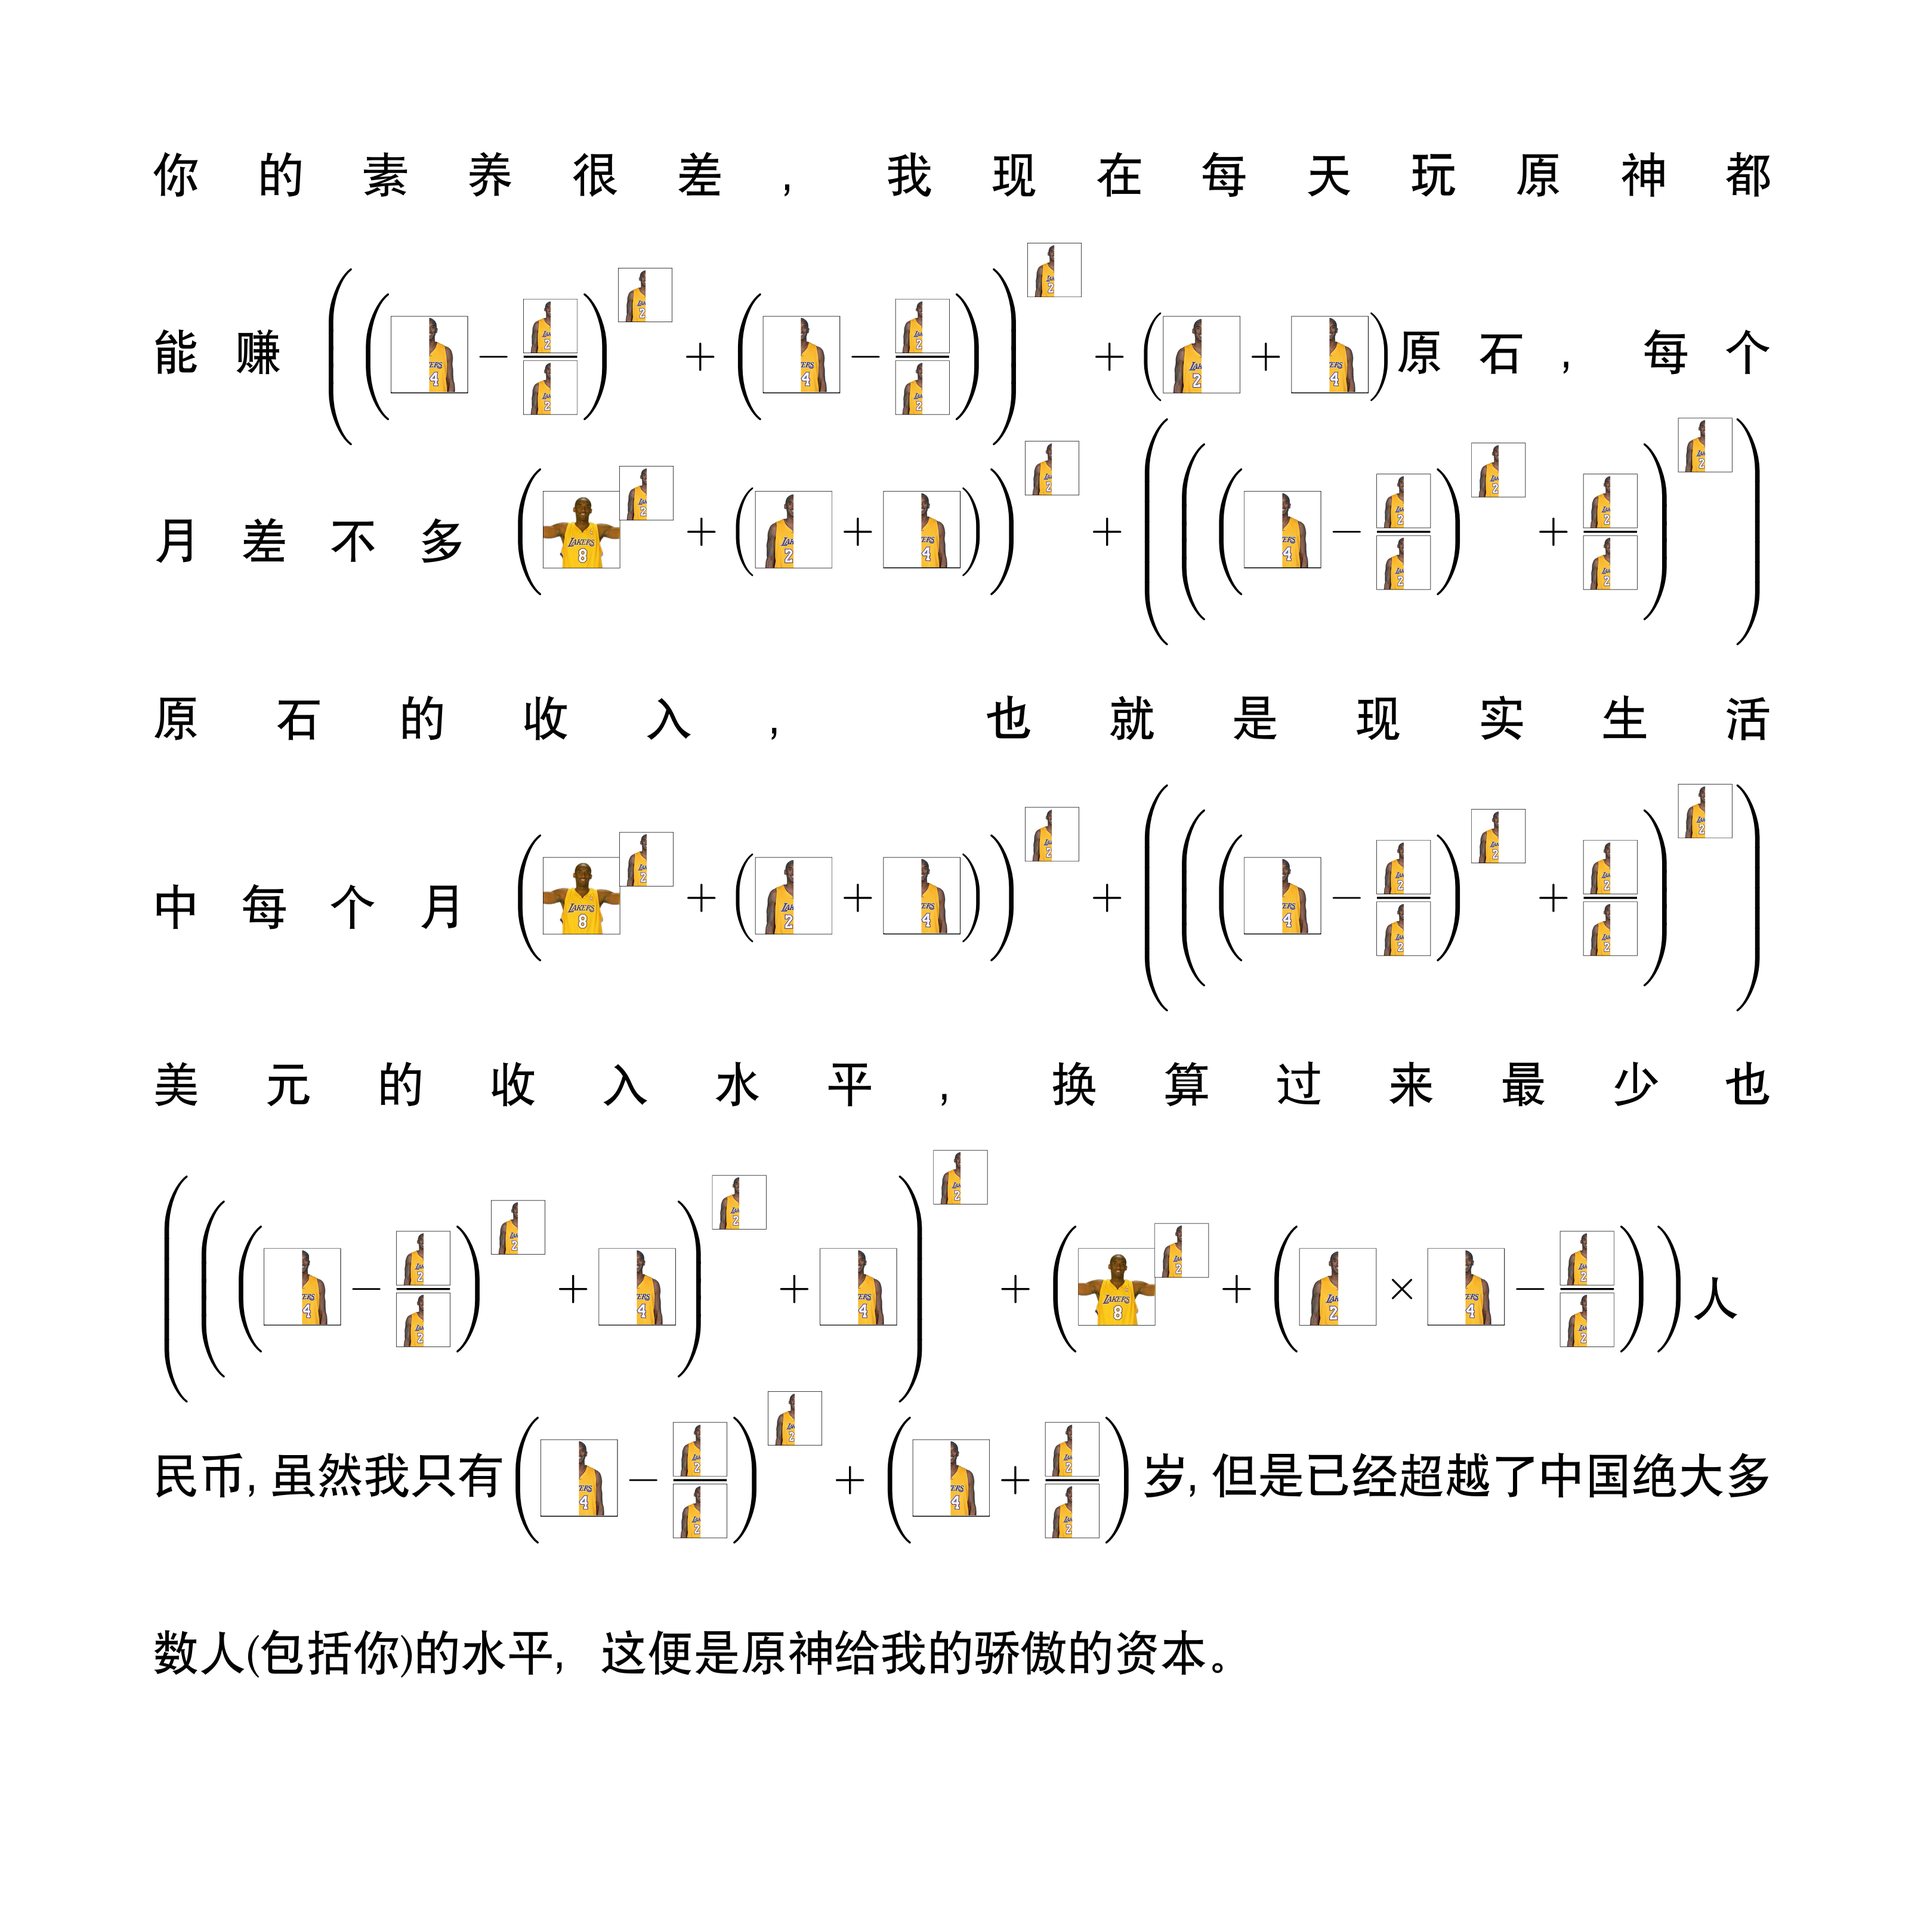
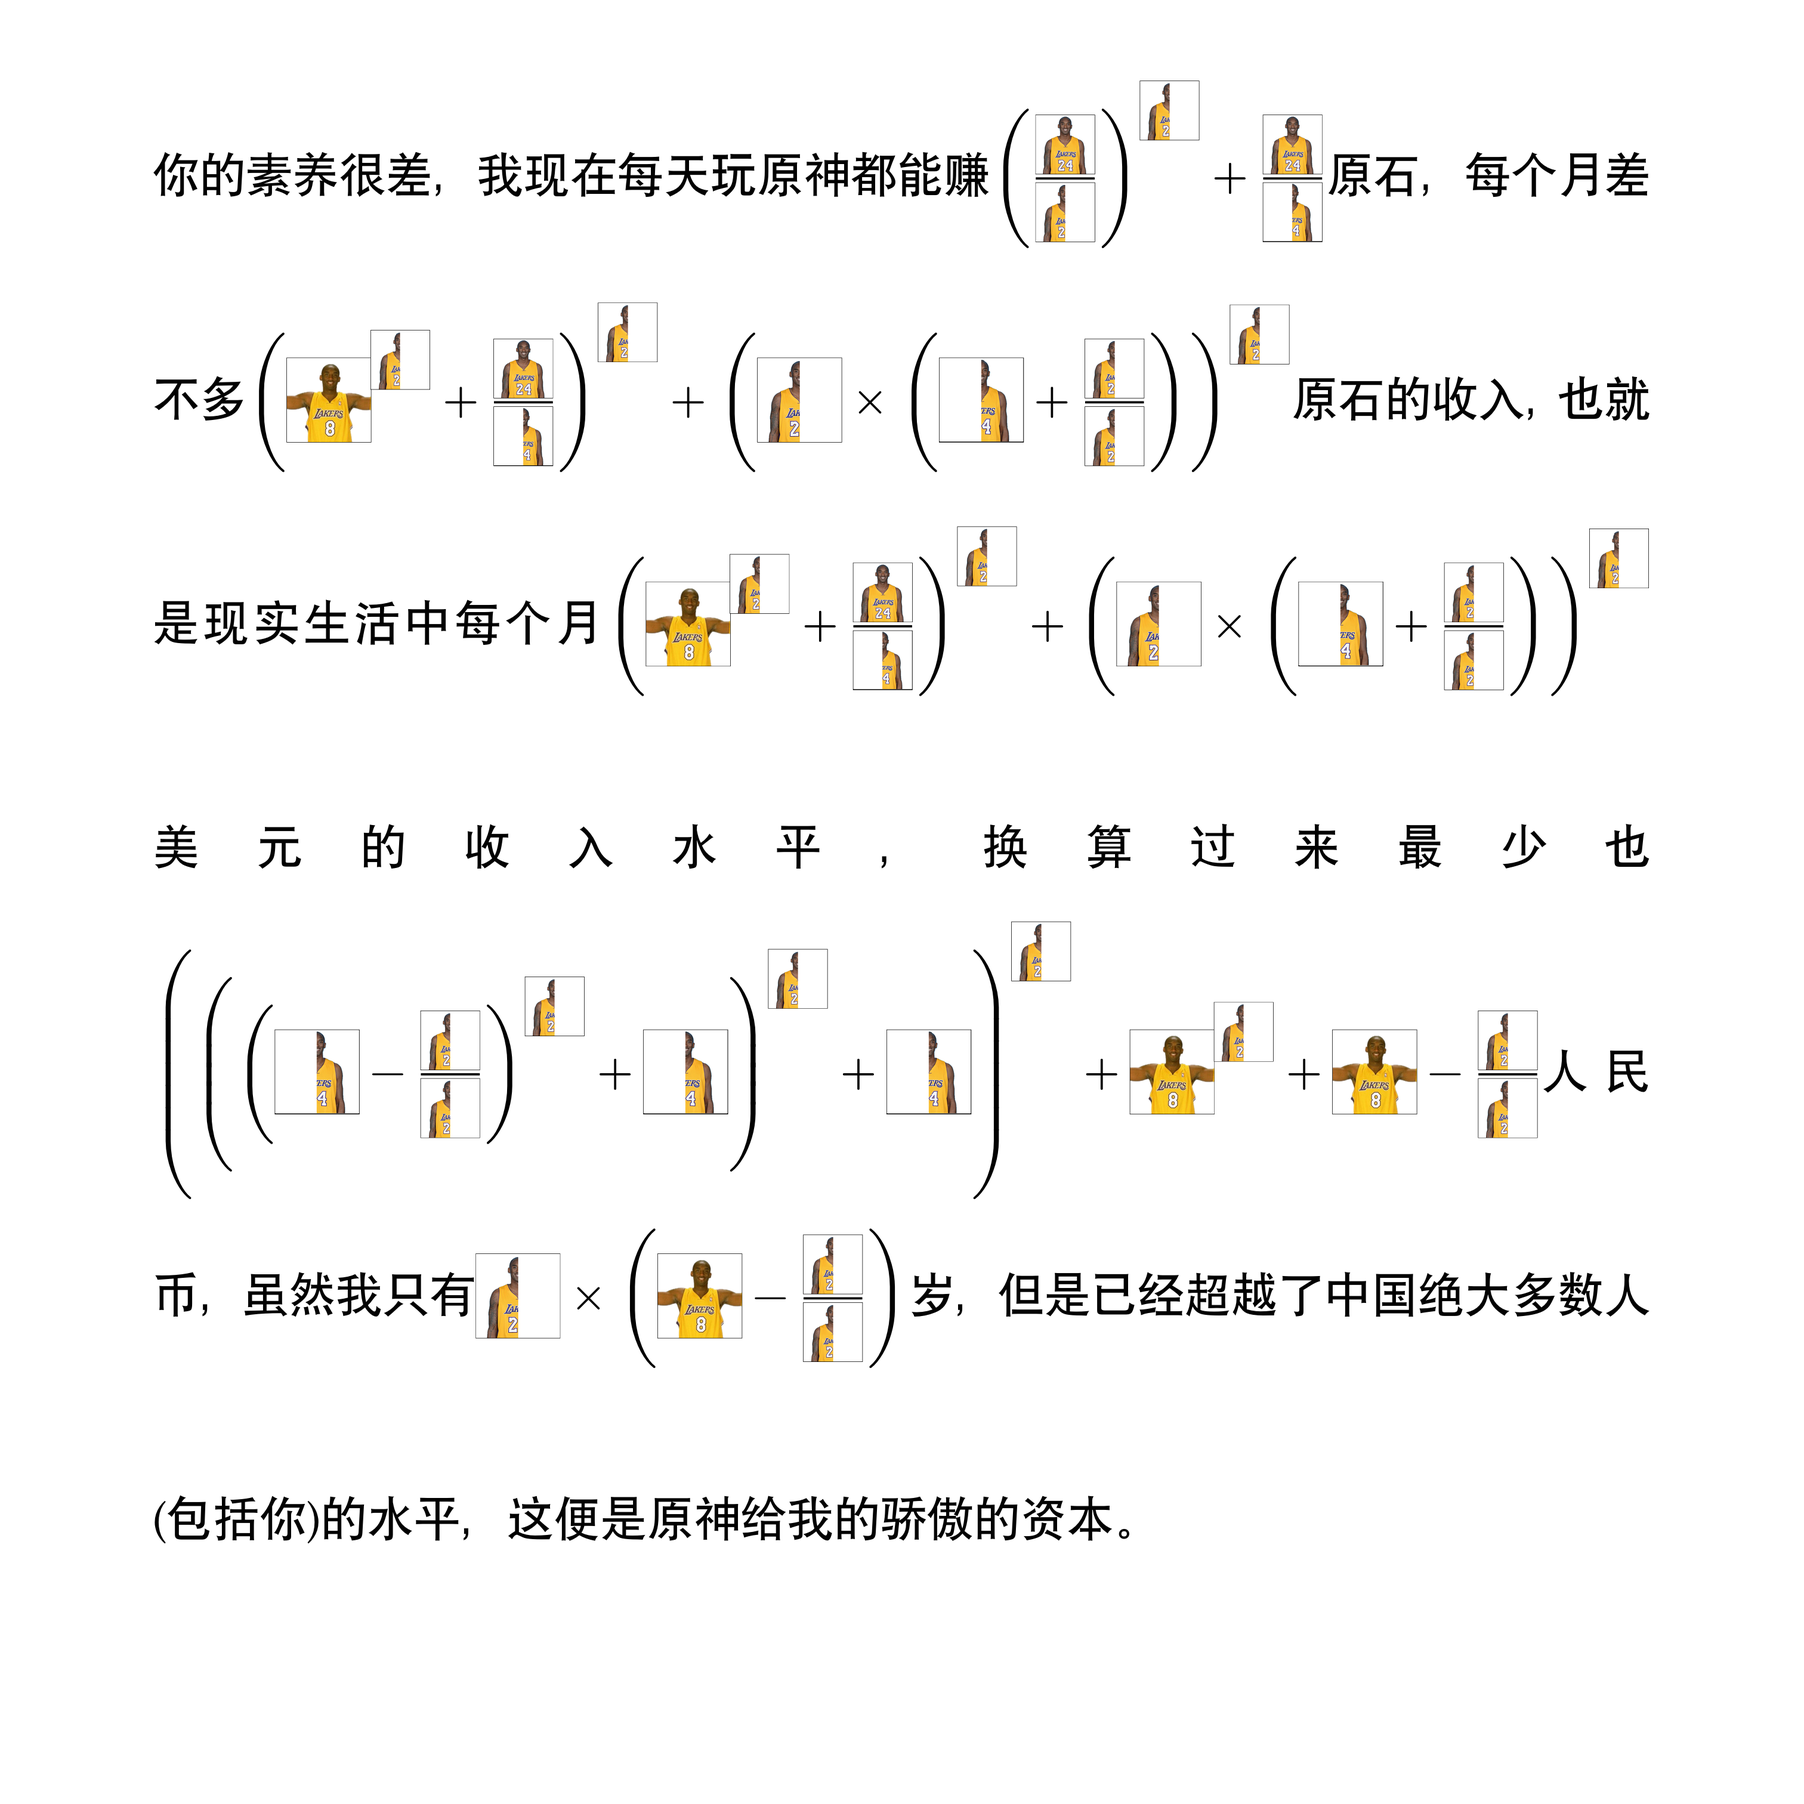
Optimize

diff --git a/index.html b/index.html
@@ -199,7 +199,7 @@
             },
             'example2': {
                 'pagewidth': '20cm',
-                'textsize': '1.2em',
+                'textsize': '1.45em',
                 'parleading': '3em',
                 'pagemargin': '0.5in',
                 'center': false,
